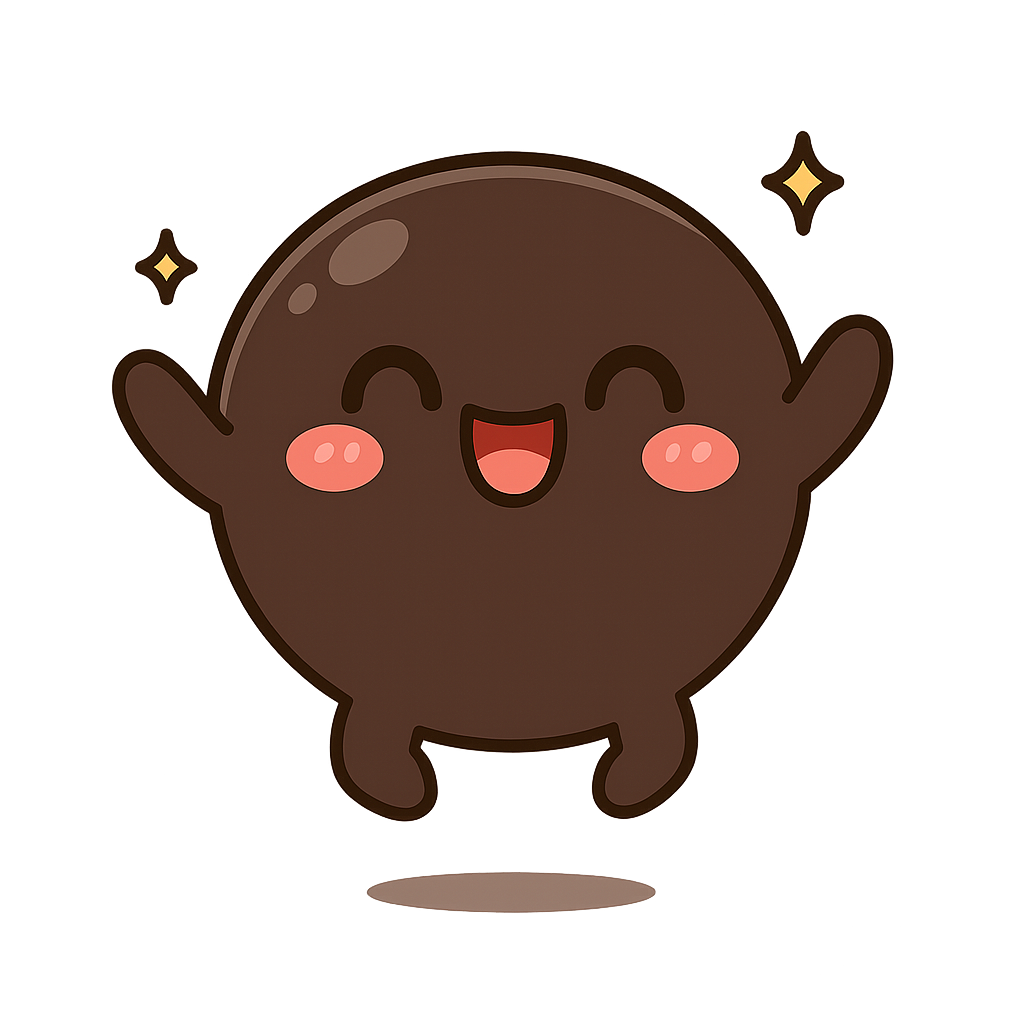
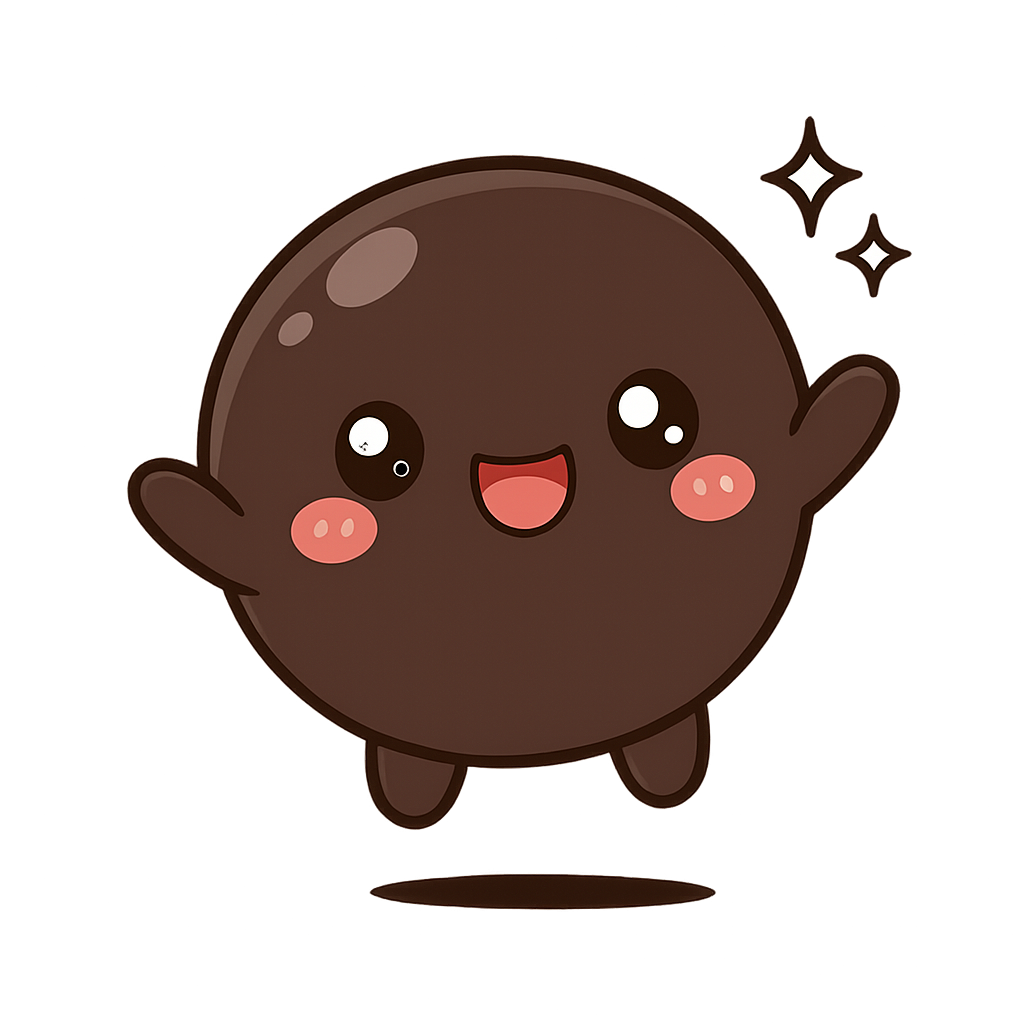
Faithful base poses via input_fidelity:high (re-enable animation)
The drift was a missing param, not a limit: gpt-image-1 image-edits with
input_fidelity:high (+ his image as reference + a strict "change only the pose"
prompt) keeps Mr. Tapioca on-model — same body, gloss, sparkly eyes, blush,
proportions. Regenerated Mixing/Sleepy/Happy faithfully, compared each to the
original, and re-wired them into MAKER_STATIC (focus/break states). Tool now
sends input_fidelity (env IMG_FIDELITY, default high). sw precache + cache v13->v14.

diff --git a/app.js b/app.js
@@ -334,16 +334,15 @@ const SKIN_IMAGES = {
 // is driven by CSS keyframes that key off the img's data-state attribute.
 // (Earlier we cycled cropped frames here; one of the idle crops was mid-blink,
 // which made the eye look like it disappeared.)
-// Use the REAL original Mr. Tapioca portrait for every state and let the CSS
-// keyframes supply the motion — this is the only zero-drift way to animate him
-// (AI-redrawn poses came out slightly off-model). Generated pose images are
-// parked in assets/ but not used until we get a faithful match.
+// Base-character pose set, generated faithfully from Mr. Tapioca.png via
+// gpt-image-1 with input_fidelity:high (keeps his exact look, only the pose
+// changes). CSS keyframes add motion on top. Idle stays the original art.
 const MAKER_STATIC = {
   idle:     "assets/Mr. Tapioca.png",
-  mixing:   "assets/Mr. Tapioca.png",
-  sleeping: "assets/Mr. Tapioca.png",
-  drinking: "assets/Mr. Tapioca.png",
-  shocked:  "assets/Mr. Tapioca.png"
+  mixing:   "assets/Pose Mixing.png",   // focusing — stirring the drink
+  sleeping: "assets/Pose Sleepy.png",   // break — dozing
+  drinking: "assets/Pose Happy.png",    // break — happy/relaxing
+  shocked:  "assets/Mr. Tapioca.png"    // (currently unused)
 };
 
 let currentMakerState = "";

diff --git a/sw.js b/sw.js
@@ -1,7 +1,7 @@
 // Mr. Tapioca service worker — makes the app installable and usable offline.
 // Bump CACHE on every release so installed users get the new app shell
 // (cache-first would otherwise serve them the old index/app.js/styles forever).
-const CACHE = "mr-tapioca-v13";
+const CACHE = "mr-tapioca-v14";
 
 // Core app shell precached on install so the app boots with no network.
 const SHELL = [
@@ -11,6 +11,9 @@ const SHELL = [
   "app.js",
   "manifest.json",
   "assets/Mr. Tapioca.png",
+  "assets/Pose Mixing.png",
+  "assets/Pose Sleepy.png",
+  "assets/Pose Happy.png",
   "assets/Cup.png",
   "assets/Tapioca Currency.png",
   "assets/Background.png",
